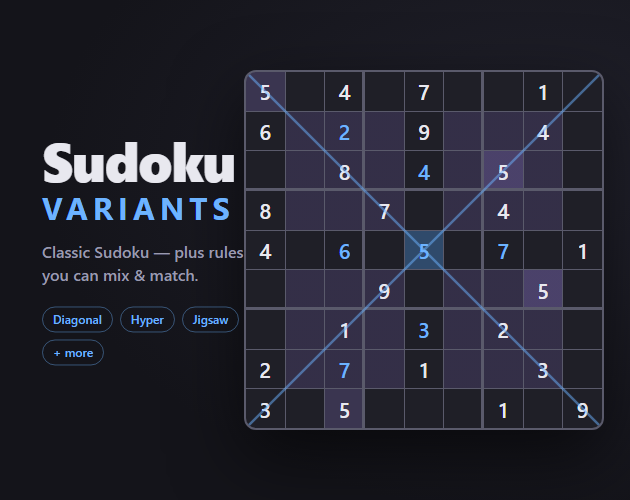
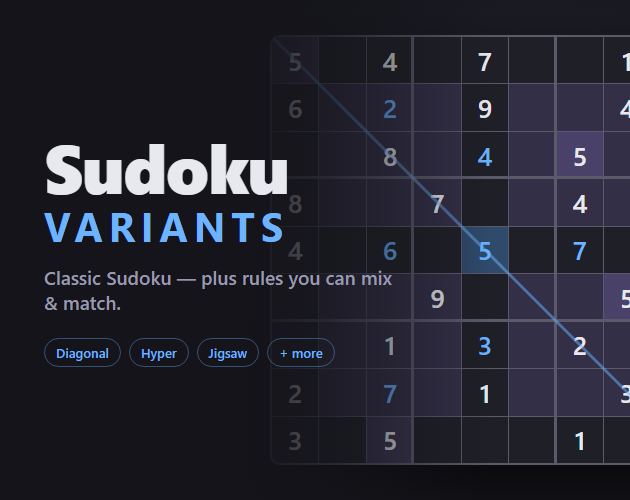
chore: cover natrag na bleeding-grid dizajn (dijagonala poravnata) + pravi menu screenshot
- cover: vraćen raniji dizajn (grid bleeda desno, veći naslov); dijagonala sada
  SVG unutar grida, ide točno kroz dijagonalne ćelije (bio slobodan 45deg offset)
- 02-variants.png: menu iz stvarnog app-a s 2 odabrane varijante -> crvena "warn"
  napomena o generaciji (shot-harness.html ?menu= otvori pravi meni i klikne varijante)

diff --git a/promo/make-cover.html b/promo/make-cover.html
@@ -37,34 +37,34 @@
         position: relative;
         width: 630px;
         height: 500px;
-        background: radial-gradient(130% 110% at 88% 35%, #21212c 0%, var(--bg) 62%), var(--bg);
+        background: radial-gradient(120% 100% at 85% 30%, #20202b 0%, var(--bg) 60%), var(--bg);
         font-family: -apple-system, BlinkMacSystemFont, "Segoe UI", Roboto, system-ui, sans-serif;
         overflow: hidden;
       }
-      /* Board fully visible on the right; title sits clear on the left. */
+      /* Grid bleeds off the right edge, dimmed, behind a scrim so the title reads. */
       .board {
         position: absolute;
         top: 50%;
-        right: 26px;
+        right: -70px;
         transform: translateY(-50%);
-        width: 360px;
-        height: 360px;
+        width: 430px;
+        height: 430px;
         display: grid;
         grid-template-columns: repeat(9, 1fr);
         grid-template-rows: repeat(9, 1fr);
         background: var(--line-strong);
         gap: 1px;
         border: 2px solid var(--line-strong);
-        border-radius: 12px;
+        border-radius: 10px;
         overflow: hidden;
-        box-shadow: 0 26px 70px rgba(0, 0, 0, 0.6);
+        box-shadow: 0 24px 60px rgba(0, 0, 0, 0.55);
       }
       .c {
         background: var(--cell);
         display: flex;
         align-items: center;
         justify-content: center;
-        font-size: 21px;
+        font-size: 26px;
         font-weight: 600;
         color: var(--given);
       }
@@ -91,28 +91,40 @@
       .c.win {
         background-image: linear-gradient(var(--window-tint), var(--window-tint));
       }
-      /* Both main diagonals, exactly corner-to-corner of the grid (Diagonal variant). */
-      .xlines {
+      /* Main diagonal, exactly corner-to-corner of the grid cells (Diagonal variant
+         nod). SVG lives inside .board so it tracks the cells, not a free 45deg line. */
+      .diag {
         position: absolute;
         inset: 0;
         width: 100%;
         height: 100%;
         pointer-events: none;
       }
-      .xlines line {
+      .diag line {
         stroke: var(--diag);
         stroke-width: 0.7;
       }
+      /* Left scrim so the grid never fights the title. */
+      .scrim {
+        position: absolute;
+        inset: 0;
+        background: linear-gradient(
+          90deg,
+          var(--bg) 34%,
+          rgba(20, 20, 26, 0.72) 52%,
+          rgba(20, 20, 26, 0) 78%
+        );
+      }
       .text {
         position: absolute;
-        left: 42px;
+        left: 44px;
         top: 50%;
         transform: translateY(-50%);
         z-index: 2;
-        width: 220px;
+        max-width: 360px;
       }
       .title {
-        font-size: 54px;
+        font-size: 68px;
         font-weight: 800;
         letter-spacing: -1px;
         color: var(--text);
@@ -121,42 +133,42 @@
       .title .v {
         color: var(--accent);
         display: block;
-        letter-spacing: 5px;
-        font-size: 31px;
+        letter-spacing: 6px;
+        font-size: 40px;
         font-weight: 700;
         margin-top: 6px;
       }
       .tagline {
-        margin-top: 18px;
-        font-size: 16px;
-        line-height: 1.4;
+        margin-top: 20px;
+        font-size: 19px;
+        line-height: 1.35;
         color: var(--muted);
         font-weight: 500;
       }
       .chips {
-        margin-top: 20px;
+        margin-top: 22px;
         display: flex;
-        gap: 7px;
+        gap: 8px;
         flex-wrap: wrap;
       }
       .chip {
-        font-size: 12px;
+        font-size: 13px;
         font-weight: 600;
         color: var(--accent);
         border: 1px solid rgba(109, 179, 255, 0.4);
         border-radius: 999px;
-        padding: 4px 10px;
+        padding: 5px 11px;
       }
     </style>
   </head>
   <body>
     <div class="cover">
       <div class="board" id="board">
-        <svg class="xlines" viewBox="0 0 100 100" preserveAspectRatio="none">
+        <svg class="diag" viewBox="0 0 100 100" preserveAspectRatio="none">
           <line x1="0" y1="0" x2="100" y2="100" />
-          <line x1="100" y1="0" x2="0" y2="100" />
         </svg>
       </div>
+      <div class="scrim"></div>
       <div class="text">
         <div class="title">Sudoku<span class="v">VARIANTS</span></div>
         <div class="tagline">Classic Sudoku &mdash; plus rules you can mix &amp; match.</div>

diff --git a/promo/shot-harness.html b/promo/shot-harness.html
@@ -208,5 +208,24 @@
       })();
     </script>
     <script src="../app.js"></script>
+    <!-- SCREENSHOT menu mode (?menu=x,hyper): open the REAL New game menu and
+         click the requested variant rows, so the app's own syncVariantButtons
+         applies the red "warn" generation note when two are selected. -->
+    <script>
+      (function () {
+        const menu = new URLSearchParams(location.search).get("menu");
+        if (!menu) return;
+        const vs = menu.split(",").filter(Boolean);
+        window.addEventListener("load", function () {
+          setTimeout(function () {
+            document.getElementById("new-btn").click();
+            vs.forEach(function (v) {
+              const b = document.querySelector('.variant-row[data-variant="' + v + '"]');
+              if (b) b.click();
+            });
+          }, 300);
+        });
+      })();
+    </script>
   </body>
 </html>